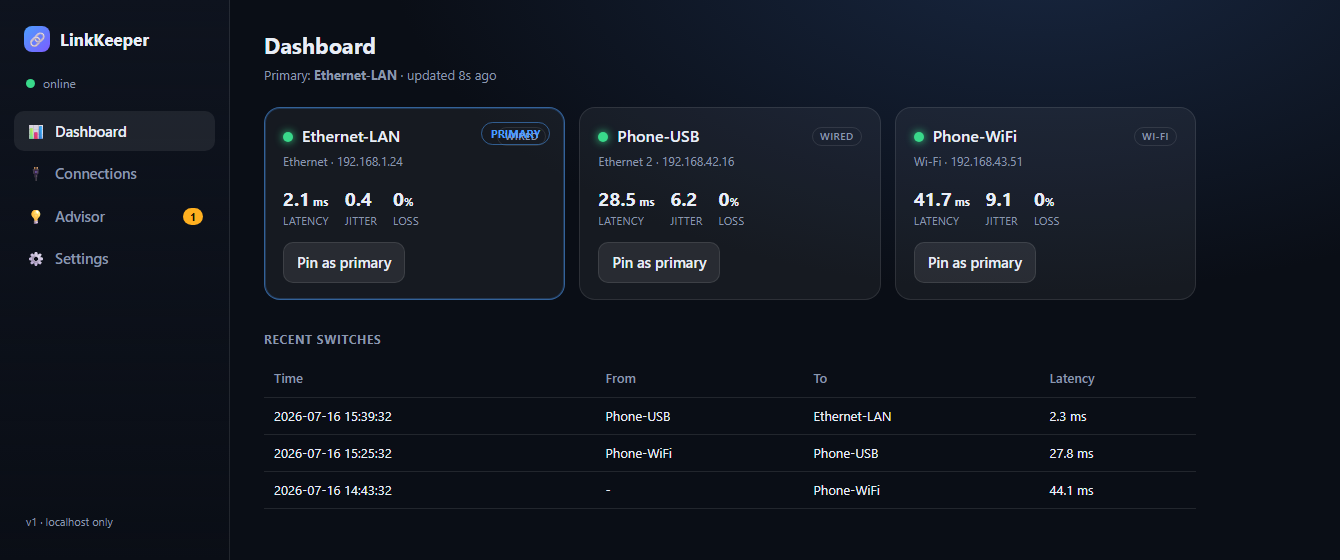
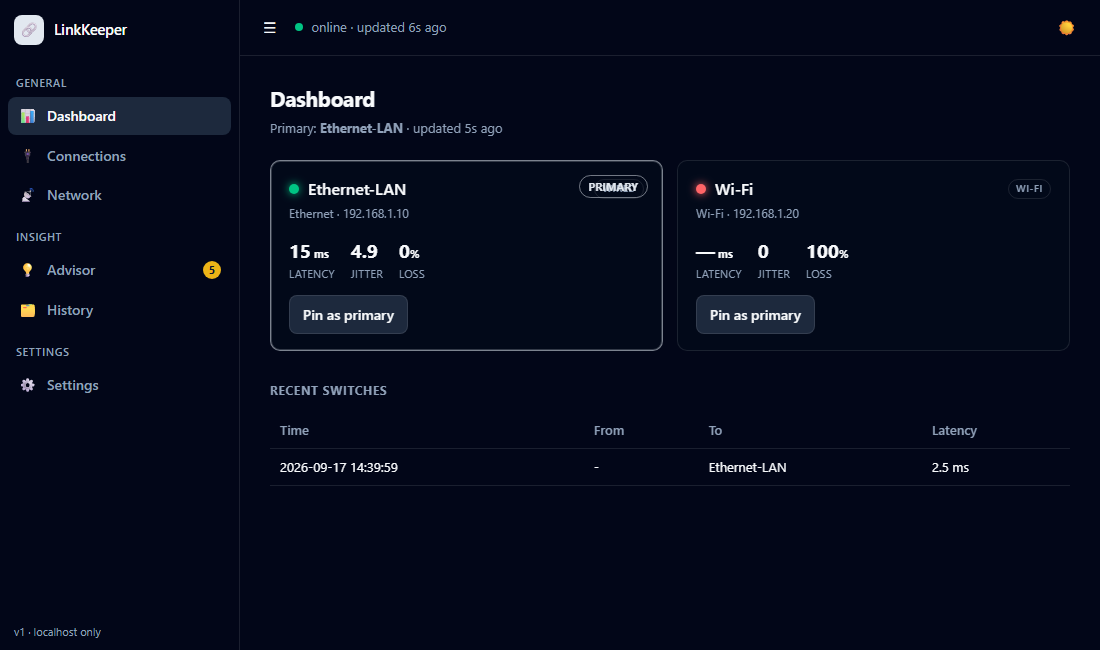
README: replace stale pre-redesign dashboard screenshot
The hero image was from the old UI (missing Network/History tabs, a
different visual theme entirely) and had a visible rendering glitch on
the PRIMARY badge. New screenshot reflects the current shadcn-admin UI
with a real failover switch event, using the same generic placeholder
link names/IPs the old image already used.

diff --git a/README.md b/README.md
@@ -9,6 +9,9 @@ degrades or dies, it fails over in seconds. Install once and forget it.
 
 ![LinkKeeper dashboard](docs/dashboard.png)
 
+*Both links health-checked live, side by side — the "Recent Switches" row above is a real
+failover that happened automatically, no manual intervention.*
+
 ![license](https://img.shields.io/badge/license-MIT-blue)
 ![platform](https://img.shields.io/badge/platform-Windows%2010%2F11-0078d6)
 ![python](https://img.shields.io/badge/python-3.10%2B-3776ab)
